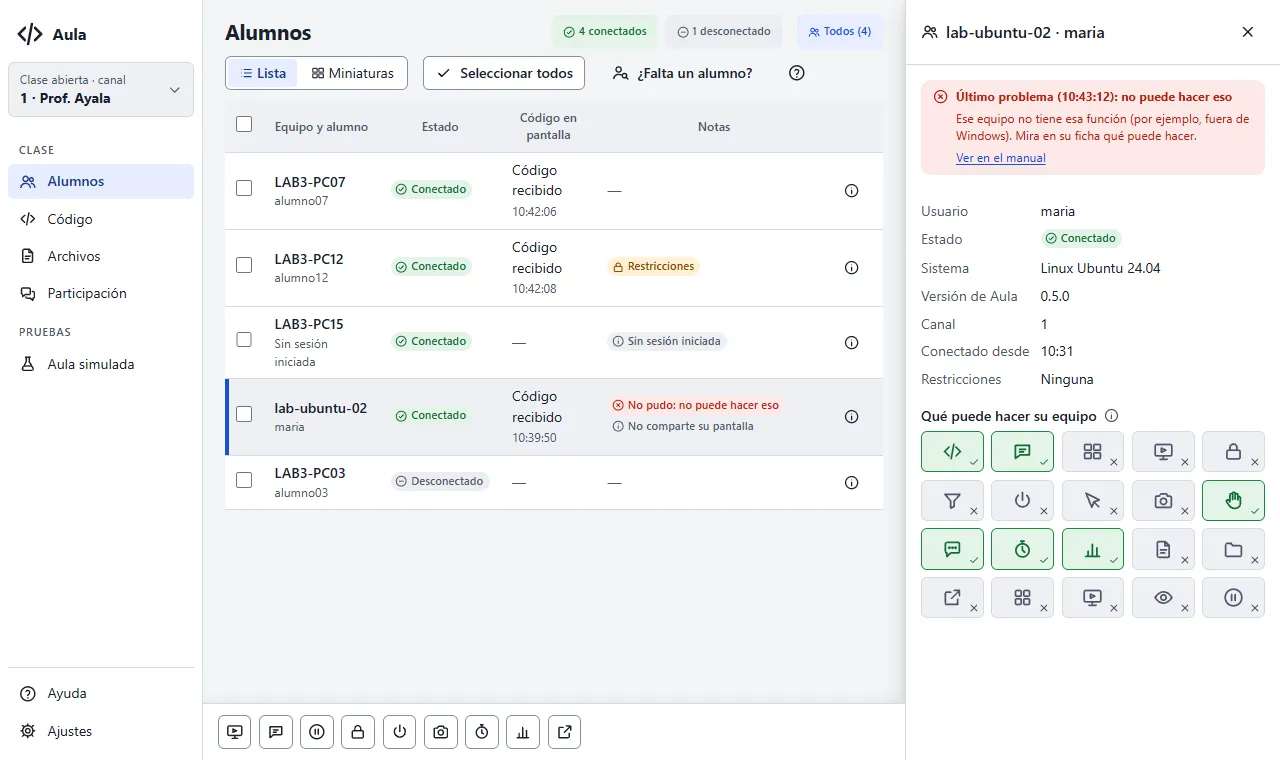
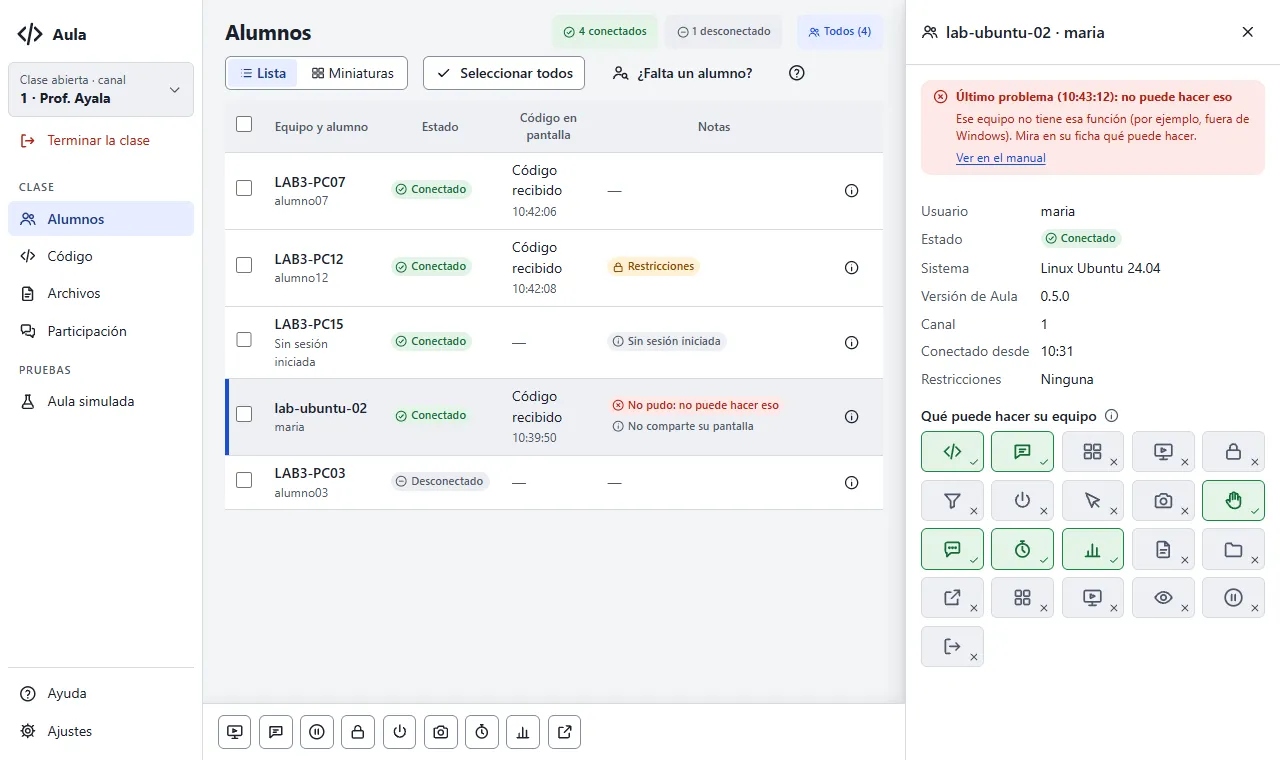
documentacion(docs): terminar la clase en privacidad, manual, diagramas y casos de prueba
Reglas 83-86, Tareas frecuentes y Primeros pasos con sus capturas, diagrama 22, eventos-ui,
casos C-114 a C-118 y A-48 a A-50, §28 de prueba-vms, CHANGELOG, progreso e internal/classend
en CLAUDE.md.

Changed region(s): [[0.0, 0.1816, 0.125, 0.3934], [0.0, 0.4237, 0.0938, 0.5447], [0.7188, 0.8474, 0.75, 0.8776]]

diff --git a/docs/eventos-ui.md b/docs/eventos-ui.md
@@ -50,6 +50,7 @@ que no es parte de la página.
 | `aula:collections` | `Collections` = `{list, folder}` | Una recolección del profesor se abre, se pide o termina una ronda (`file.collect.*`, docs/protocol.md §5.21). `list` es `[collect.Collection]`, lo más viejo primero: `{id, date, activity, folder, patterns, openedAt, state, rounds}`; `folder` es la carpeta de la actividad **relativa** a la carpeta de trabajo (`recolecciones/2026-11-06/Ejercicio 4`); `state` `open`, `requested` o `collected`; cada ronda `{round, at, doneAt, files: [{path, size, saved, reason}], skipped: [{path, size, reason}], failed}` (`doneAt` en cero mientras se manda). El `folder` de afuera (`"Aula"`) nombra la carpeta de trabajo. Los avisos de antes y después de leer llegan en `aula:notices` con `kind` `collect-requested` y `collect-done` y `ref` = el `id` de la recolección; la ventana toma de aquí la carpeta y lo recogido (`notify`, nunca `raise`). |
 | `aula:polls` | `poll.BallotView` = `{cards, arrived}` | Llega una encuesta del profesor, se cierra, llegan sus resultados o cambia el estado de la respuesta del alumno (`poll.*`, docs/protocol.md §5.23). `cards` es `[poll.Card]`, lo más nuevo primero (hasta 5): `{pollId, kind, question, options, named, open, choice, text, vote, results, at}`; `kind` `choice`, `yesno` u `open` (con `yesno`, `options` va vacío y la ventana pone «Sí» y «No»); `choice` es la respuesta enviada (−1 si ninguna o si es texto); `vote` `none`, `sending`, `accepted`, `late` (llegó cerrada), `unknown`, `unsupported` o `refused`; `results` `null` o `{counts, voters, recipients}`. `arrived` solo viene en el evento que anuncia una encuesta nueva: la ventana la marca «Nuevo» una vez. Go llama a `notify`, nunca a `raise` (privacidad, regla 71). `View().polls` trae lo mismo. |
 | `aula:opened` | `Opened` = `{list}` | El profesor abrió una página o una app en este equipo (`open.*`, docs/protocol.md §5.22). `list` es `[openapp.Opened]`, lo más viejo primero (hasta 20): `{id, kind, shown, full, teacher, channel, at}`; `kind` `url` o `app`; `shown` es el dominio y la ruta de la URL sin la consulta (o el nombre de la app) y `full` la URL completa, para el tooltip. El aviso en la esquina llega en `aula:notices` con `kind` `opened` y `ref` = el `id`; la ventana arma el texto («{profesor} (canal {canal}) abrió {shown} en tu navegador») con estos datos. Solo `notify`, nunca `raise`: el navegador o la app ya tomaron el foco (privacidad, regla 67). `View().opened` trae lo mismo. |
+| `aula:class-end` | `*classend.Card` o `null` | El profesor terminó la clase (`class.end`, docs/protocol.md §5.25): `{endId, at, removed}`, con `at` en milisegundos y `removed` = `{control, present, broadcast, pause, restrictions, timer, hand, polls, snippets, notices, files, collections, opened, messages}` (booleanos y conteos, nunca contenido). La ventana muestra la tarjeta «La clase terminó» con la hora y lo que se quitó, arriba del Estado vacío, con «Nuevo» una vez por `endId`. Antes de este evento Go ya vació el código, los avisos, las tarjetas, el temporizador y la mano con sus propios eventos. `null`: el alumno la cerró o llegó código nuevo. Go llama a `notify`, nunca a `raise` (regla 83). `View().classEnd` trae lo mismo. |
 
 ```jsonc
 // Status
@@ -117,6 +118,7 @@ llevar estado propio.
 | `App.View()` | `View` = `{status, snippets, notices, broadcast, restrictions, power, participation, timer, files, collections, opened, polls}` | Estado completo para el primer dibujo. |
 | `App.Copy(snippetId)` | error (promesa rechazada con texto en español) | Copia el fragmento al portapapeles del sistema. |
 | `App.DismissNotice(noticeId)` | — | Cierra un aviso; emite `aula:notices`. |
+| `App.DismissClassEnd()` | — | **Entendido** de la tarjeta «La clase terminó»: la oculta y emite `aula:class-end` con `null`. Solo oculta la tarjeta: no toca ninguna banda. |
 | `App.ReportMedia(webrtc, h264)` | — | Al cargar: si hay `RTCPeerConnection` y decodificador H.264. Go espera este aviso (máx. 5 s) antes de conectarse y solo entonces declara `screen.broadcast`. |
 | `App.BroadcastAnswer(broadcastId, attempt, sdp)` | error | La respuesta SDP de la interfaz. Go comprueba que sea solo recepción de video y la envía con el `ref_id` de la oferta. |
 | `App.BroadcastCandidate(broadcastId, attempt, candidate, sdpMid, sdpMLineIndex)` | error | Un candidato ICE local; `""` cierra la lista. |
@@ -241,6 +243,7 @@ interfaz ──App.StopBroadcast()──▶ screen.broadcast.stop a todos; la co
 | `aula:polls` | `poll.View` | Se lanza, se cierra o se comparte una encuesta, un alumno (real o simulado) responde o la confirma (`poll.ack`), o la clase se cierra (docs/protocol.md §5.23). `{current, closed}`: `current` es la abierta o `null`; `closed`, las cerradas de la clase, lo más nuevo primero. Cada una `poll.PollView` = `{pollId, kind, question, named, open, shared, shareable, all, hosts, openedAt, closedAt, options, answered, answeredSimulated, received, eligible, unsupported, answers, missing}`: `options` = `[{label, count, simulated}]` (`label` vacío en sí o no); `answers` = `[{hostname, username, simulated, choice, text, at}]` solo si es nominal, o en una anónima de respuesta corta los textos **sin** equipo ni hora; `missing`, quién no ha respondido (solo nominal y abierta). La franja y la sección **Encuestas** de Participación se dibujan con él. |
 | `aula:opens` | `[openapp.Order]` | Se abre una página o una app, o un alumno lo acusa (`open.ack`) o responde con un error (docs/protocol.md §5.22). Las últimas 5, lo más nuevo primero: `{id, kind, label, at, targets: [{sessionId, hostname, status, reason}], unsupported: [hostname], failed: [hostname], opened, pending, refused}`. `kind` `url` o `app`; `label` es la URL o el nombre de la app (solo para el profesor; los registros nunca los llevan); `status` `sent`, `opened`, `failed` (con `reason` `not_allowed`, `not_installed`, `launch_failed` o `busy`) o `error`. Se vacía al abrir otra clase. |
 | `aula:allowed-apps` | `AllowedApps` | Se guardó la lista de Ajustes › Apps permitidas. `{apps: [{id, name, path}], source, path}`: `source` `centro` (`C:\ProgramData\Aula\centro\apps-permitidas.json`, de todas las consolas), `consola` (la carpeta de esta consola) o `ejemplos` (aún sin archivo: los ejemplos de Aula); `path` es dónde se guarda. |
+| `aula:class-end` | `classend.View` | **Terminar la clase** avanza: termina un paso, un alumno acusa `class.end.ack`, se cumplen 10 s sin acuse, o un equipo que faltaba se reconecta y lo recibe (docs/protocol.md §5.25). `{endId, at, running, steps, students, clean, missing}`: `steps` = `[{kind, status, count}]` con `kind` `collect`, `broadcast`, `present`, `control`, `pause`, `restrictions`, `timer`, `poll` o `power` y `status` `done`, `failed`, `kept` (energía conservada) o `timeout` (la recolección no terminó en 60 s); `students` = `[{hostname, sessionId, simulated, state, reason, at}]` con `state` `waiting`, `clean`, `partial` (versión anterior: solo `code.clear`), `noack`, `away` (lo recibe al volver) o `failed` (`reason` `restrictions`, `pause` o `internal`). El diálogo «Terminar la clase» se redibuja con él. |
 | `aula:remote-frame` | `Thumb` | Cada imagen de la pantalla controlada (hasta 8 por segundo con la vista abierta, 1 con la vista cerrada). No pasa por `aula:frame` ni se guarda. |
 
 ```jsonc
@@ -404,6 +407,10 @@ cada código tenga su enlace y que la sección exista.
 | `ResumeScreens(hosts)` | `PauseResult` | **Reanudar** (panel, Pantalla grande, franja o Ctrl+Mayús+P). `screen.unfreeze` a quien tiene una pausa; `hosts` vacío: todo el canal. |
 | `ChangePauseMessage(message)` | `PauseResult` / error | **Cambiar mensaje** (diálogo de la franja). `screen.freeze` con el mensaje nuevo a quien sigue en pausa. |
 | `Pauses()` | `screen.PauseSummary` | El resumen de la franja, como `aula:pauses`. |
+| `ClassEndPreview()` | `ClassEndPreview` / error | Al abrir **Terminar la clase**: lo que sigue activo y lo opcional. `{broadcast, present, control, paused, apps, web, timer, poll, power, hands, messages, snippets, students, simulated, old, disconnected, collection, running}`; `present` y `control` son el equipo (o `""`), `power` cuántos tienen un apagado pendiente, `old` cuántos conectados no declaran `class.end`, `collection` la última recolección `{id, activity, missing}` o `null`. Sin clase: `noClass`. |
+| `FinishClass({collect, cancelPower})` | `classend.View` / error | **Terminar la clase**: devuelve en seguida con `running: true` y sigue por `aula:class-end`. Los pasos, en orden: recoger (si `collect`, hasta 60 s), transmisión, proyección, control, pausa, restricciones, temporizador, encuesta, energía (solo `power.cancel` si `cancelPower`; si no, `kept`), `class.end` a cada equipo y la consola «sin clase» (historial, envíos, manos, mensajes, encuestas, archivos y recolecciones en memoria vaciados). Nunca borra un archivo. Otro en curso: `endBusy`. |
+| `RetryClassEnd()` | `classend.View` / error | **Reintentar a los que faltan**: `class.end` otra vez a los conectados `noack` o `failed`. Antes del primer fin: `endBusy`. |
+| `ClassEnd()` | `classend.View` | El último fin de clase (vacío: `endId` `""`), para reabrir el diálogo. |
 | — | — | `TakeControl` y `StartPresent` mandan antes `screen.unfreeze` a un alumno en pausa: el profesor necesita su pantalla real. |
 | `AllowedApps()` | `AllowedApps` | Ajustes › Apps permitidas y la lista de «Abrir página o app»: la del centro, la de esta consola o los ejemplos, en ese orden. |
 | `DefaultAllowedApps()` | `[openapp.App]` | **Restaurar ejemplos**: los ejemplos de Aula (Bloc de notas, Calculadora, Paint, VS Code, Thonny, Scratch 3), sin guardarlos. |

diff --git a/docs/diagramas/22-terminar-clase.md b/docs/diagramas/22-terminar-clase.md
@@ -1,0 +1,84 @@
+---
+titulo: "Terminar la clase"
+descripcion: "En qué orden la consola detiene lo activo y limpia la ventana de cada alumno, qué acusa cada uno y qué pasa con quien falta"
+audiencia: [profesor, alumno, desarrollador]
+pantallas: [alumnos]
+secciones_manual: [administracion/tareas-frecuentes, privacidad, protocol]
+---
+
+# Terminar la clase
+
+¿Qué hace «Terminar la clase», en qué orden, y cómo se entera la consola de que cada ventana
+quedó limpia, también la de un alumno que estaba desconectado?
+
+```mermaid
+%%{init: {"htmlLabels": false}}%%
+sequenceDiagram
+    autonumber
+    actor Prof as Profesor
+    box rgb(220,252,231) Consola
+        participant UI as Diálogo «Terminar la clase»
+        participant C as classend.Class
+    end
+    box rgb(220,252,231) Equipos de los alumnos
+        participant A as Agente conectado
+        participant D as Agente desconectado
+    end
+
+    Prof->>UI: Terminar la clase (opcional: recoger, cancelar la energía)
+    opt Recoger el trabajo antes de terminar
+        UI->>A: file.collect.request (§5.21), espera hasta 60 s
+    end
+    UI->>A: screen.broadcast.stop, student.present.stop, remote.stop
+    UI->>A: screen.unfreeze, app.block.clear, web.filter.clear
+    UI->>A: timer.stop, poll.close
+    alt el profesor marcó «Cancelar el apagado programado»
+        UI->>A: power.cancel
+    else por omisión
+        Note over UI: la energía pendiente se conserva
+    end
+    UI->>C: Begin, un end_id nuevo
+    UI->>A: class.end (end_id)
+    Note over A: suelta el control, quita pausa y restricciones,<br/>vacía código, avisos, archivos, encuestas y la mano,<br/>muestra «La clase terminó» (notify, sin quitar el foco)
+    A-->>C: class.end.ack clean o failed (restrictions, pause)
+    Note over C: D estaba desconectado, queda «lo recibe al volver»
+    Note over UI: la consola queda «sin clase»: sin historial,<br/>manos, encuestas ni envíos. Sigue en el canal.
+    C-->>UI: resultado por alumno (limpio, sin acuse, con error)
+
+    rect rgb(255,237,213)
+        D->>C: se reconecta (hello)
+        C->>D: class.end, antes de reenviar nada
+        D-->>C: class.end.ack clean
+    end
+    opt sin acuse en 10 s o failed
+        Prof->>UI: Reintentar a los que faltan
+        UI->>A: class.end otra vez
+    end
+```
+
+## Lo que no es obvio
+
+- **Primero lo que actúa sobre el equipo, después la ventana.** La consola usa la parada de
+  siempre de cada función (§5.12–5.24), así el alumno ve desaparecer cada banda con su propia
+  regla; `class.end` solo deja la ventana como recién abierta y repite las paradas en el agente
+  por si alguna no llegó.
+- **Si un paso falla, los demás siguen** y el resultado lo dice. Terminar dos veces seguidas no
+  rompe nada: el agente vuelve a acusar `clean`.
+- **La energía no se cancela sola** (regla 85): el profesor pudo programar el apagado de fin de
+  día a propósito. Solo con «Cancelar el apagado programado» se envía `power.cancel`.
+- **Quien faltaba no hereda nada.** Las restricciones y la pausa ya se quitaron solas al perder la
+  conexión (reglas 10 y 24); al volver, recibe `class.end` antes que lo que la consola reenvía al
+  reconectar, y no pierde nada nuevo: mientras estuvo fuera no recibió nada.
+- **Un agente anterior** (sin `class.end`) recibe las paradas y `code.clear`: queda «limpio en
+  parte».
+- **Nunca se borra un archivo** (regla 84): ni en `Documentos\Aula` del alumno ni en las carpetas
+  de la consola.
+- Los alumnos simulados también lo reciben y limpian su ventana simulada.
+
+## Fuentes en el código
+
+- `internal/classend/classend.go` (`Class`: `Begin`, `Sent`, `Ack`, `Expire`, `Owed`, `Retry`)
+- `internal/classend/agent.go` (`Removed`, `Card`, `Ack`)
+- `apps/teacher/classend.go` (`FinishClass`, `runClassEnd`, `syncClassEnd`, `clearConsoleClass`)
+- `apps/student/classend.go` (`endClass`), `internal/simclass/classend.go`
+- `docs/protocol.md` §5.25, `docs/privacidad.md` reglas 83–86

diff --git a/docs/desarrollo/probar-consola-local.md b/docs/desarrollo/probar-consola-local.md
@@ -238,6 +238,23 @@ revisa a ojo en el equipo del alumno (nunca con clics sintéticos en tu escritor
 | A-46 | Desconecta la red del alumno con la pausa puesta | En unos 15 s la pausa y la banda se quitan solas; al volver la red, Aula se reconecta y no hay pausa |
 | A-47 | Repite A-42 y A-46 con el agente como servicio; luego, con la pausa puesta, termina el proceso del ayudante en el Administrador de tareas | Lo mismo: la pausa la muestra el ayudante en tu sesión. Al terminar el ayudante, la pausa desaparece con él y el servicio lo vuelve a abrir sin pausa. `aula-agente.log` dice «screen paused» con `message_len`, **nunca** el mensaje |
 
+### Terminar la clase (10.14)
+
+Con dos alumnos reales con Windows (uno como servicio), el aula simulada abierta con dos alumnos y,
+si puedes, un tercer equipo con una versión anterior de Aula. La tarjeta del alumno y sus bandas se
+revisan a ojo en su equipo (nunca con clics sintéticos en tu escritorio).
+
+| # | Pasos | Esperado |
+|---|---|---|
+| C-114 | Emite código, pausa las pantallas, pon restricciones de apps, inicia un temporizador, lanza una encuesta y programa un apagado de 10 min. Pulsa **Terminar la clase** en el menú | El diálogo lista «Sigue activo»: 2 pantallas en pausa, apps bloqueadas, temporizador, encuesta y «Apagado programado en N equipos: se conserva»; «También se vacía» con el historial; **Cancelar el apagado programado** apagado. A 900×600 y en oscuro se lee completo |
+| C-115 | **Terminar la clase** sin marcar nada | Los pasos con ✓ (pausa, restricciones, temporizador, encuesta) y «Apagado programado conservado». La tabla: los reales y los simulados «Limpio»; el de versión anterior «Limpio en parte». Desaparecen las franjas de pausa, temporizador y encuesta; la cuenta del apagado sigue. Código › historial y «Últimos envíos» vacíos, Participación vacía |
+| C-116 | Con una recolección abierta, vuelve a terminar marcando **Recoger «…» antes de terminar** y **Cancelar el apagado programado** | Primero llega lo recogido (Archivos › Recolecciones), luego «Trabajo recogido» y «Apagado programado cancelado»; la cuenta regresiva desaparece en los alumnos |
+| C-117 | Desconecta la red de un alumno y pulsa **Terminar la clase**; reconecta su red | Su fila dice «Desconectado: lo recibe al volver»; al volver pasa a «Limpio» sin hacer nada. No hereda restricciones ni pausa |
+| C-118 | Pon el fallo «No acusa» a un simulado y termina; quítale el fallo y pulsa **Reintentar al que falta** | A los 10 s «Sin acuse»; tras reintentar, «Limpio». Pulsar **Terminar la clase** dos veces seguidas no da error |
+| A-48 | Con código, un aviso, una encuesta, el temporizador, la mano levantada y restricciones, termina la clase con tu editor al frente | La ventana de Aula **no** se adelanta ni quita el foco; el icono del área de notificación se marca. Al abrirla: la banda de restricciones ya no está, la lista está vacía (Estado vacío) y arriba la tarjeta «La clase terminó · a las HH:MM» con «Nuevo» y lo que se quitó; «Tus archivos en Documentos › Aula siguen ahí». Los archivos recibidos siguen en la carpeta |
+| A-49 | **Entendido** en la tarjeta; termina otra vez y luego emite código | La tarjeta se cierra; la segunda vez dice «Tu ventana ya estaba vacía»; al llegar código se va sola |
+| A-50 | Repite A-48 con el agente como servicio | Lo mismo; `aula-agente.log` dice «class ended» con cuántas cosas se quitaron, **nunca** el código ni los avisos |
+
 ### Notas de interfaz 014–016 (2026-11-12)
 
 | # | Pasos | Esperado |

diff --git a/docs/progreso.md b/docs/progreso.md
@@ -1,6 +1,7 @@
 # Progreso
 
-Última actualización: 2026-11-12 (12.2 transmisión a una selección y modos ventana y pantalla
+Última actualización: 2026-11-12 (10.14 terminar la clase implementada, falta la prueba en VM;
+12.2 transmisión a una selección y modos ventana y pantalla
 completa implementada, falta la prueba en VM y en la ventana real; 12.1 proyectar la pantalla de
 un alumno implementada, falta la prueba en VM; 10.12 encuestas en vivo implementadas, falta la prueba en VM;
 10.11 abrir página o app implementada, falta la prueba en VM;
@@ -40,7 +41,7 @@ el que se trabajó antes; las notas de abajo lo conservan.
 | 10.11 | Enviar una URL o abrir una app | ✅ Implementado y probado en CI con dobles; panel «Abrir» de la barra, la acción en la ficha y la Pantalla grande, y Ajustes › Apps permitidas (falta la prueba en VM, `docs/prueba-vms.md` §23, y los casos C-79 a C-83 y A-26 y A-27) |
 | 10.12 | Encuestas en vivo | ✅ Implementado y probado en CI con dobles y alumnos simulados; panel «Encuesta» de la barra, franja y sección «Encuestas» de Participación (falta la prueba en VM, `docs/prueba-vms.md` §24, y los casos C-84 a C-88 y A-28 a A-30) |
 | 10.13 | Identidad del alumno (cuenta, nombre, grado, grupo), materias, asistencia y bitácora | ⏳ Pendiente (prompt ampliado el 12/11/2026) |
-| 10.14 | Terminar la clase | ⏳ Pendiente (prompt del 12/11/2026) |
+| 10.14 | Terminar la clase | ✅ Implementado y probado en CI con dobles y alumnos simulados; «Terminar la clase» bajo el Selector de clase con su diálogo, `class.end` (§5.25), reglas 83–86, diagrama 22. Sin 10.13: la asistencia y la identidad quedan para cuando exista (falta la prueba en VM, `docs/prueba-vms.md` §28, y los casos C-114 a C-118 y A-48 a A-50) |
 | 10.15 | Nombres de los equipos y mapa del aula | ⏳ Pendiente (prompt del 12/11/2026) |
 | 10.16 | Grupos guardados y equipos de trabajo | ⏳ Pendiente (prompt del 12/11/2026) |
 | 10.17 | Entregar código desde la app del alumno (`code.collect`) | ⏳ Pendiente (prompt del 12/11/2026) |
@@ -85,8 +86,10 @@ el que se trabajó antes; las notas de abajo lo conservan.
    capturas del arnés, del mapa, de las notas y del manual son WebP (manual: de 463 KB a 288 KB).
 5. Funciones para `v0.1.0` (prompts del 12/11/2026, lista en `docs/prompts/00-LEEME.md`), con
    `/funcionalidad-nueva <número>` y en este orden: ~~10.21 (pantalla en blanco)~~ (hecha el
-   12/11/2026, sin commit) → 10.13
-   (identidad, asistencia y bitácora) → 10.14 (terminar la clase) → 10.15 (nombres y mapa) →
+   12/11/2026) → 10.13
+   (identidad, asistencia y bitácora; al hacerla, agregar a «Terminar la clase» exportar la
+   asistencia y olvidar la identidad) → ~~10.14 (terminar la clase)~~ (hecha el 12/11/2026, sin
+   commit) → 10.15 (nombres y mapa) →
    10.17 (entregar código); 10.16 si hay tiempo. Después: 15 (auto-actualización) y 11 (revisión).
    10.18 a 10.25 quedan para después de `v0.1.0` (10.20 con `/funcionalidad-mejora`).
 6. Menor (traído de la entrega E11, eliminada en la limpieza del 12/11/2026): el comprobador de

diff --git a/docs/administracion/tareas-frecuentes.md b/docs/administracion/tareas-frecuentes.md
@@ -1,6 +1,6 @@
 ---
 titulo: "Tareas frecuentes"
-resumen: "Mostrar tu pantalla o la de un alumno, mandar avisos, pausar las pantallas, dar tiempo a un ejercicio, restringir aplicaciones y sitios, apagar equipos, tomar el control de un equipo, tomar una captura de su pantalla y cambiar de canal."
+resumen: "Mostrar tu pantalla o la de un alumno, mandar avisos, pausar las pantallas, dar tiempo a un ejercicio, restringir aplicaciones y sitios, apagar equipos, tomar el control de un equipo, tomar una captura de su pantalla, cambiar de canal y terminar la clase."
 grupo: "Tareas frecuentes"
 orden: 60
 pantallas: []
@@ -294,6 +294,41 @@ pulsa **Guardar**. Los equipos que no lo permiten se omiten y se nombran.
 - **Cuándo no se puede:** con su sesión bloqueada o un aviso de administrador en pantalla
   («¿Quieres permitir que esta aplicación haga cambios?»), y en equipos sin Windows o con una
   versión de Aula anterior (su ficha dice «Tomar una captura de su pantalla: No»).
+
+## Terminar la clase
+
+Al acabar la hora, deja el laboratorio limpio para el siguiente grupo con un solo botón:
+
+1. Pulsa **Terminar la clase**, en el menú, debajo de la tarjeta «Clase abierta · canal».
+2. Revisa la lista **Sigue activo**: transmisión, proyección, control remoto, pantallas en pausa,
+   restricciones, temporizador, encuesta abierta y apagado programado.
+3. Si quieres, marca:
+   - **Recoger «actividad» antes de terminar**: recoge tu última recolección de quien falte y
+     espera hasta un minuto (los alumnos ven el aviso de siempre).
+   - **Cancelar el apagado programado**: un apagado o reinicio pendiente **no** se cancela si no
+     lo marcas, por si programaste el apagado de fin de día a propósito.
+4. Pulsa **Terminar la clase**.
+
+Aula detiene cada cosa con su botón de siempre y después pide a cada equipo que deje su ventana
+como recién abierta: sin código, avisos, tarjetas de archivos ni encuestas, con la mano bajada.
+El alumno ve una tarjeta **«La clase terminó»** con la hora y lo que se quitó. **No se borra
+ningún archivo**: lo que está en `Documentos\Aula` del alumno, y tus capturas, recolecciones y
+plantillas, se quedan.
+
+El diálogo muestra después qué se hizo y el resultado por alumno:
+
+- **Limpio**: su ventana quedó vacía.
+- **Limpio en parte (versión anterior)**: su Aula es más vieja; solo se le quitó el código.
+- **Sin acuse** o **Desconectado: lo recibe al volver**: en cuanto ese equipo se vuelva a conectar,
+  recibe el fin de clase sin que hagas nada.
+- **No se pudieron quitar las restricciones**: pulsa **Reintentar a los que faltan**. Si sigue
+  fallando, se quitan solas al apagar el equipo o cerrar la sesión.
+
+Tu consola queda **sin clase**: se vacían el historial de código, «Últimos envíos», las manos,
+los mensajes, las encuestas y los envíos de archivos. Sigues en el mismo canal, lista para el
+siguiente grupo. Pulsar **Terminar la clase** dos veces seguidas no rompe nada.
+
+{{diagrama:22-terminar-clase}}
 
 ## Cambiar de canal o de nombre
 

diff --git a/docs/privacidad.md b/docs/privacidad.md
@@ -660,6 +660,37 @@ agente no captura: lo hace su ayudante, en la sesión del alumno y con sus derec
 En Linux con Wayland la captura pasa por el portal de escritorio, que pide al alumno aprobar en
 cada sesión; en macOS, el permiso «Grabación de pantalla». Linux y macOS no lo declaran todavía.
 
+## Terminar la clase (sin publicar, todos los sistemas)
+
+Al acabar la hora, el profesor pulsa «Terminar la clase» (bajo el Selector de clase del menú de
+la consola): se detiene lo que sigue activo y la ventana de cada alumno queda como recién abierta
+(`docs/protocol.md` §5.25). No observa ni controla: solo deshace.
+
+83. **El alumno sabe qué se quitó y cuándo.** La ventana muestra una tarjeta en la lista, sin
+    quitar el foco (`notify`, nunca `raise`):
+
+    > **La clase terminó** · 10:52
+    > Tu profesor terminó la clase: ya no hay restricciones, se quitó el temporizador y se
+    > vaciaron el código y los avisos. Tus archivos en Documentos\Aula siguen ahí.
+
+    Dice solo lo que había (restricciones, pausa, control, transmisión, temporizador, encuestas,
+    código, avisos, archivos, recolecciones, la mano y los mensajes sin enviar). Cada banda de
+    transparencia desaparece con lo que la causaba, como siempre; la tarjeta no es una banda y el
+    alumno la cierra con «Entendido» (o se va sola cuando llega código nuevo).
+84. **Nunca borra ni lee archivos.** Terminar la clase no borra, mueve, abre ni lee nada del
+    alumno: lo que está en `Documentos\Aula` (archivos recibidos y recolecciones) se queda; solo
+    se quitan las tarjetas de la ventana. En la consola tampoco se borra nada en disco (capturas
+    guardadas, recolecciones, plantillas); se vacía lo que estaba en memoria. Borrar archivos al
+    terminar queda como propuesta (`docs/ux/PROPUESTAS.md`). Si el profesor marca «Recoger el
+    trabajo antes de terminar», aplica el aviso de la regla 61.
+85. **La energía no se cancela sola.** Un apagado o reinicio programado sigue su cuenta regresiva
+    (reglas 26–31): el profesor pudo programarlo a propósito. Solo se cancela si lo marca en el
+    diálogo («Cancelar el apagado programado»), apagado por omisión.
+86. **Registros y simulados.** Los registros llevan `end_id`, el estado, el motivo, el equipo y
+    cuántas cosas se quitaron; nunca el código, los avisos ni los nombres de los archivos. Los
+    alumnos simulados declaran `class.end` y limpian su ventana simulada: no cambia ningún equipo
+    (regla 34 no aplica). Un equipo desconectado al terminar recibe el fin de clase al volver.
+
 ## Pendiente para etapas futuras
 
 - Linux y macOS (incluida la recepción de la transmisión, las restricciones, el control remoto

diff --git a/CLAUDE.md b/CLAUDE.md
@@ -69,6 +69,10 @@ Dos aplicaciones, mismo monorepo:
     vigente, para quién es, qué se mandó y acusó cada sesión y el reenvío al reconectar
     (`Class`); del lado del agente, la cuenta por lo que falta (nunca por la hora), el fin una sola
     vez y lo que muestra la ventana (`Countdown`). Solo informa: nada cambia en el equipo.
+  - `internal/classend`: terminar la clase (`class.end`): del lado de la consola, qué hizo cada
+    paso, cómo quedó la ventana de cada alumno y a quién se le debe el fin de clase al reconectar
+    (`Class`); del lado del agente, qué se quitó y la tarjeta «La clase terminó» (`Removed`, `Card`).
+    Cada paso usa la parada de su paquete; nunca borra archivos.
   - `internal/poll`: las encuestas en vivo (`poll.*`): del lado de la consola, la abierta y las
     cerradas de la clase, un voto por alumno (cuenta el último), los totales y el reenvío al
     reconectar (`Class`); del lado del agente, las tarjetas, la respuesta que espera su acuse y los
@@ -100,7 +104,7 @@ Dos aplicaciones, mismo monorepo:
     frontend Wails bajo `sistema/`. Una sola copia: ninguna app guarda la suya. Su prueba de
     contraste (WCAG AA) vive con él.
   - `apps/teacher`, `apps/student`: cada una su `main` y su frontend Wails; solo consumen `internal/*`.
-- **`protocol`, `discovery`, `transport`, `session`, `codedist`, `screen`, `broadcast`, `agentsvc`, `policy`, `power`, `remote`, `snapshot`, `simclass`, `manual`, `connectcheck`, `participation`, `classtimer`, `poll`, `filepush`, `collect`, `openapp`, `ui` NO llaman APIs del SO.** Todo lo
+- **`protocol`, `discovery`, `transport`, `session`, `codedist`, `screen`, `broadcast`, `agentsvc`, `policy`, `power`, `remote`, `snapshot`, `simclass`, `manual`, `connectcheck`, `participation`, `classtimer`, `classend`, `poll`, `filepush`, `collect`, `openapp`, `ui` NO llaman APIs del SO.** Todo lo
   que toca pantalla, teclado, portapapeles, overlay o servicios pasa por una interfaz de
   `internal/platform`.
 - El profesor anuncia su sesión por mDNS con el canal en los metadatos. **Los alumnos se

diff --git a/docs/prueba-vms.md b/docs/prueba-vms.md
@@ -1314,3 +1314,19 @@ debe ver y nunca deja a nadie bloqueado (`docs/protocol.md` §5.9–5.11, `docs/
 | **PA-F** Reanudar | Pausa otra vez y **Reanudar todo** (o Ctrl+Mayús+P). | Se quita en las dos VMs y la franja desaparece. |
 
 **Para aceptar** bastan PA-A, PA-B y PA-D en ✅.
+
+## 28. Terminar la clase (10.14)
+
+Comprueba que un solo botón deja el laboratorio limpio, que el siguiente inicio de sesión no hereda
+nada y que no se pierde trabajo (`docs/protocol.md` §5.25, `docs/privacidad.md` reglas 83–86). Con
+dos VMs Windows: la VM 1 con el agente **como servicio**, la VM 2 en modo ventana, y la consola en el
+equipo del profesor.
+
+| Caso | Pasos | Esperado |
+|---|---|---|
+| **TC-A** Todo se detiene (**aceptación**) | En las dos VMs: restricciones de apps y web, temporizador, encuesta, pausa y código. Envía un archivo. **Terminar la clase**. | En las dos VMs se quitan la pausa, la banda de restricciones, el temporizador y la encuesta; la lista queda vacía con «La clase terminó». El archivo sigue en `Documentos\Aula`. La consola dice «Limpio» en las dos. |
+| **TC-B** Sin herencia (**aceptación**) | Cierra la sesión del alumno en la VM 1 e inicia otra; en la VM 2, cierra Aula y vuelve a abrirla. | Ninguna tiene restricciones (prueba abrir un sitio filtrado y una app bloqueada), pausa ni temporizador. |
+| **TC-C** Desconectado (**aceptación**) | Pon restricciones, desconecta la red de la VM 2, **Terminar la clase** y reconéctala. | La consola la marca «Desconectado: lo recibe al volver» y luego «Limpio»; al volver no tiene restricciones ni código. |
+| **TC-D** Energía | Programa un apagado de 10 min y termina sin marcar «Cancelar el apagado programado»; repite marcándolo. | La primera vez la cuenta sigue; la segunda, desaparece. |
+
+**Para aceptar** bastan TC-A, TC-B y TC-C en ✅.

diff --git a/CHANGELOG.md b/CHANGELOG.md
@@ -60,6 +60,15 @@ retiraron; esta es la primera.
 - **Recolecciones:** recoger el trabajo de cada alumno de una carpeta acordada.
 - **Abrir** una página o una app permitida en el equipo del alumno.
 
+### Al terminar la hora
+
+- **Terminar la clase**, bajo la tarjeta de la clase en el menú: detiene en un paso lo que quedó
+  activo (transmisión, proyección, control, pausa, restricciones, temporizador, encuesta) y deja la
+  ventana de cada alumno como recién abierta, con la tarjeta «La clase terminó». Opcionalmente
+  recoge el trabajo antes y cancela un apagado programado (por omisión se conserva). Muestra el
+  resultado por alumno con «Reintentar a los que faltan»; quien estaba desconectado lo recibe al
+  volver. No borra ningún archivo.
+
 ### Control del equipo (Windows)
 
 - **Restricciones** de la clase: bloquear apps y filtrar sitios web, siempre reversibles.

diff --git a/docs/diagramas/README.md b/docs/diagramas/README.md
@@ -55,6 +55,7 @@ lleve `foreignObject`.
 | 19 | [Enviar archivos y plantillas](19-enviar-archivos.md) | `sequenceDiagram` | profesor, alumno, desarrollador, auditor |
 | 20 | [Encuestas](20-encuestas.md) | `sequenceDiagram` | profesor, alumno, desarrollador, auditor |
 | 21 | [Proyectar la pantalla de un alumno](21-proyectar-alumno.md) | `sequenceDiagram` | profesor, alumno, desarrollador, auditor |
+| 22 | [Terminar la clase](22-terminar-clase.md) | `sequenceDiagram` | profesor, alumno, desarrollador |
 
 Una fila sin enlace debe decir «(pendiente)»: así se lista un diagrama cuya función aún no
 existe.

diff --git a/docs/administracion/primeros-pasos.md b/docs/administracion/primeros-pasos.md
@@ -49,3 +49,9 @@ pantalla, por ejemplo «7 de 8». Si falta alguien, abre **Quién falta** y, si 
 **Reenviar a los que faltan**. Más en [Código](codigo#últimos-envíos).
 
 ![La pantalla Código, con el editor y los últimos envíos](img/codigo.webp)
+
+## Al terminar la hora
+
+Pulsa **Terminar la clase**, debajo de la tarjeta «Clase abierta · canal»: detiene lo que dejaste
+activo y limpia la ventana de cada alumno, sin borrar archivos. Más en
+[Tareas frecuentes](tareas-frecuentes#terminar-la-clase).
